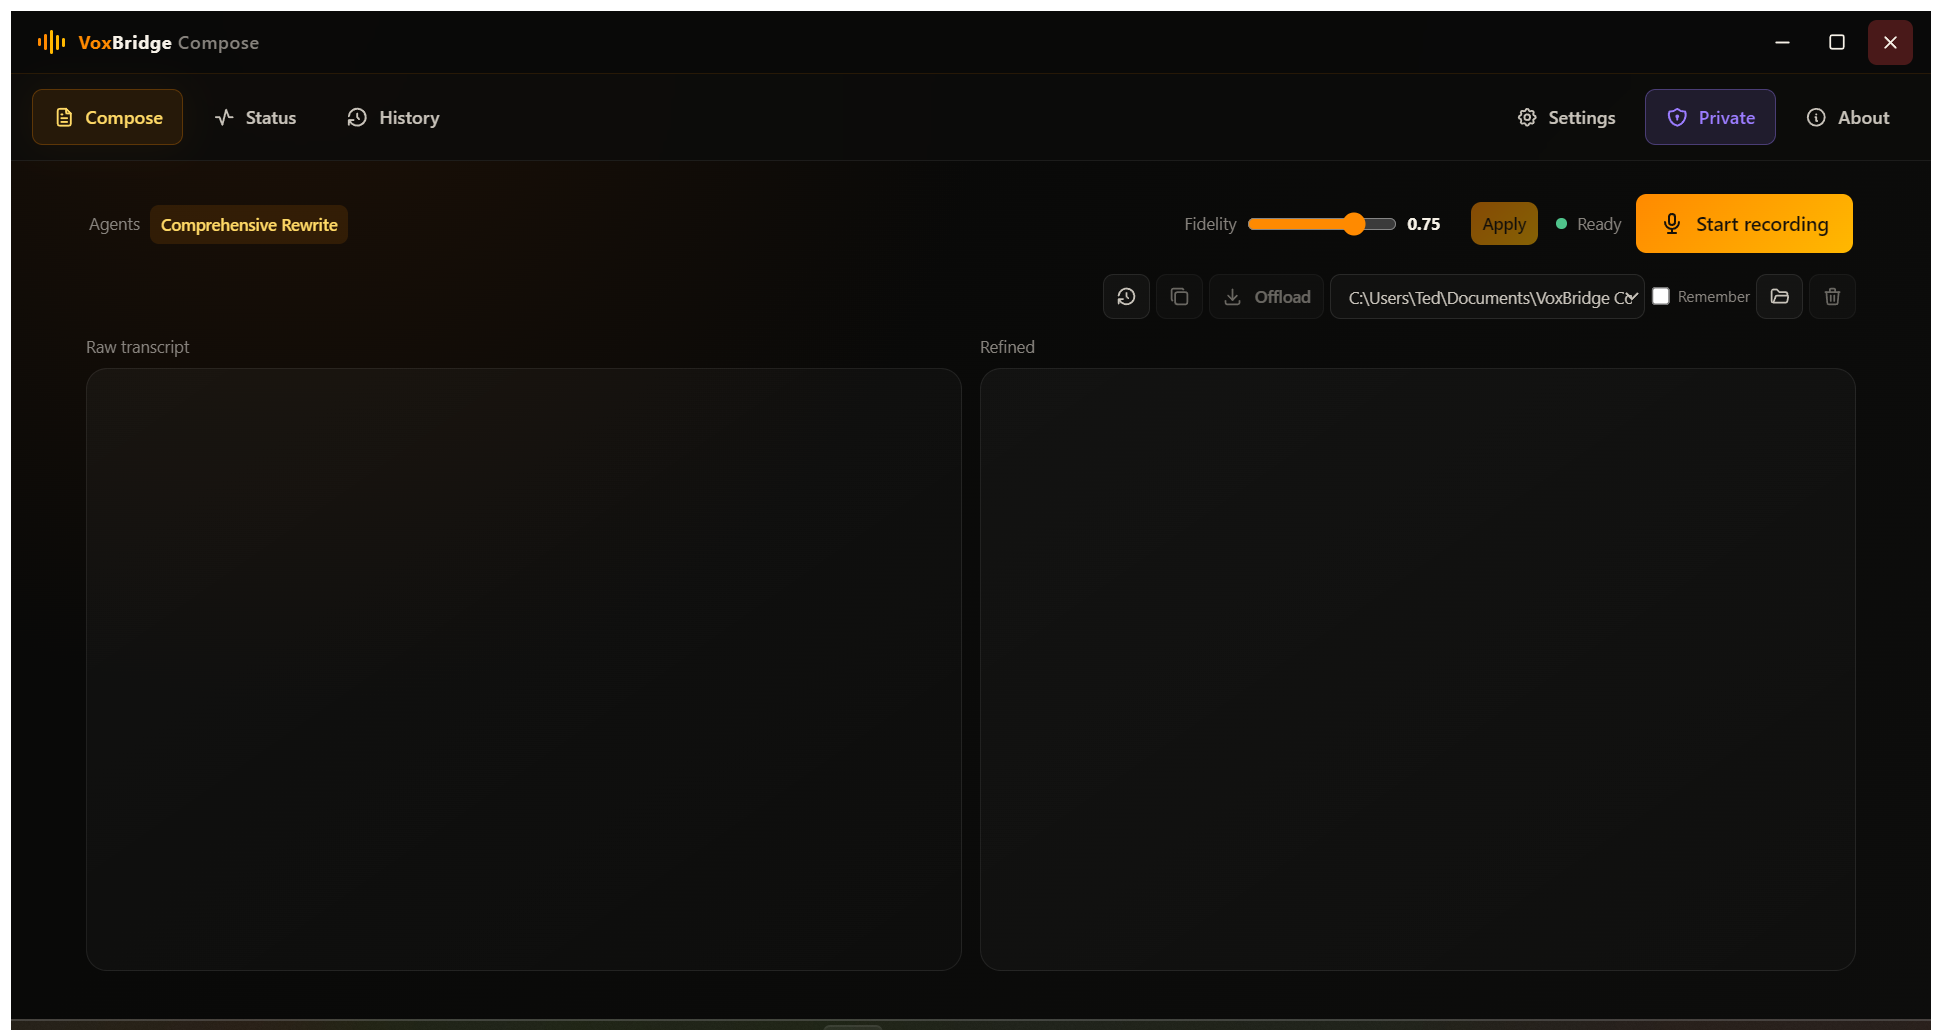
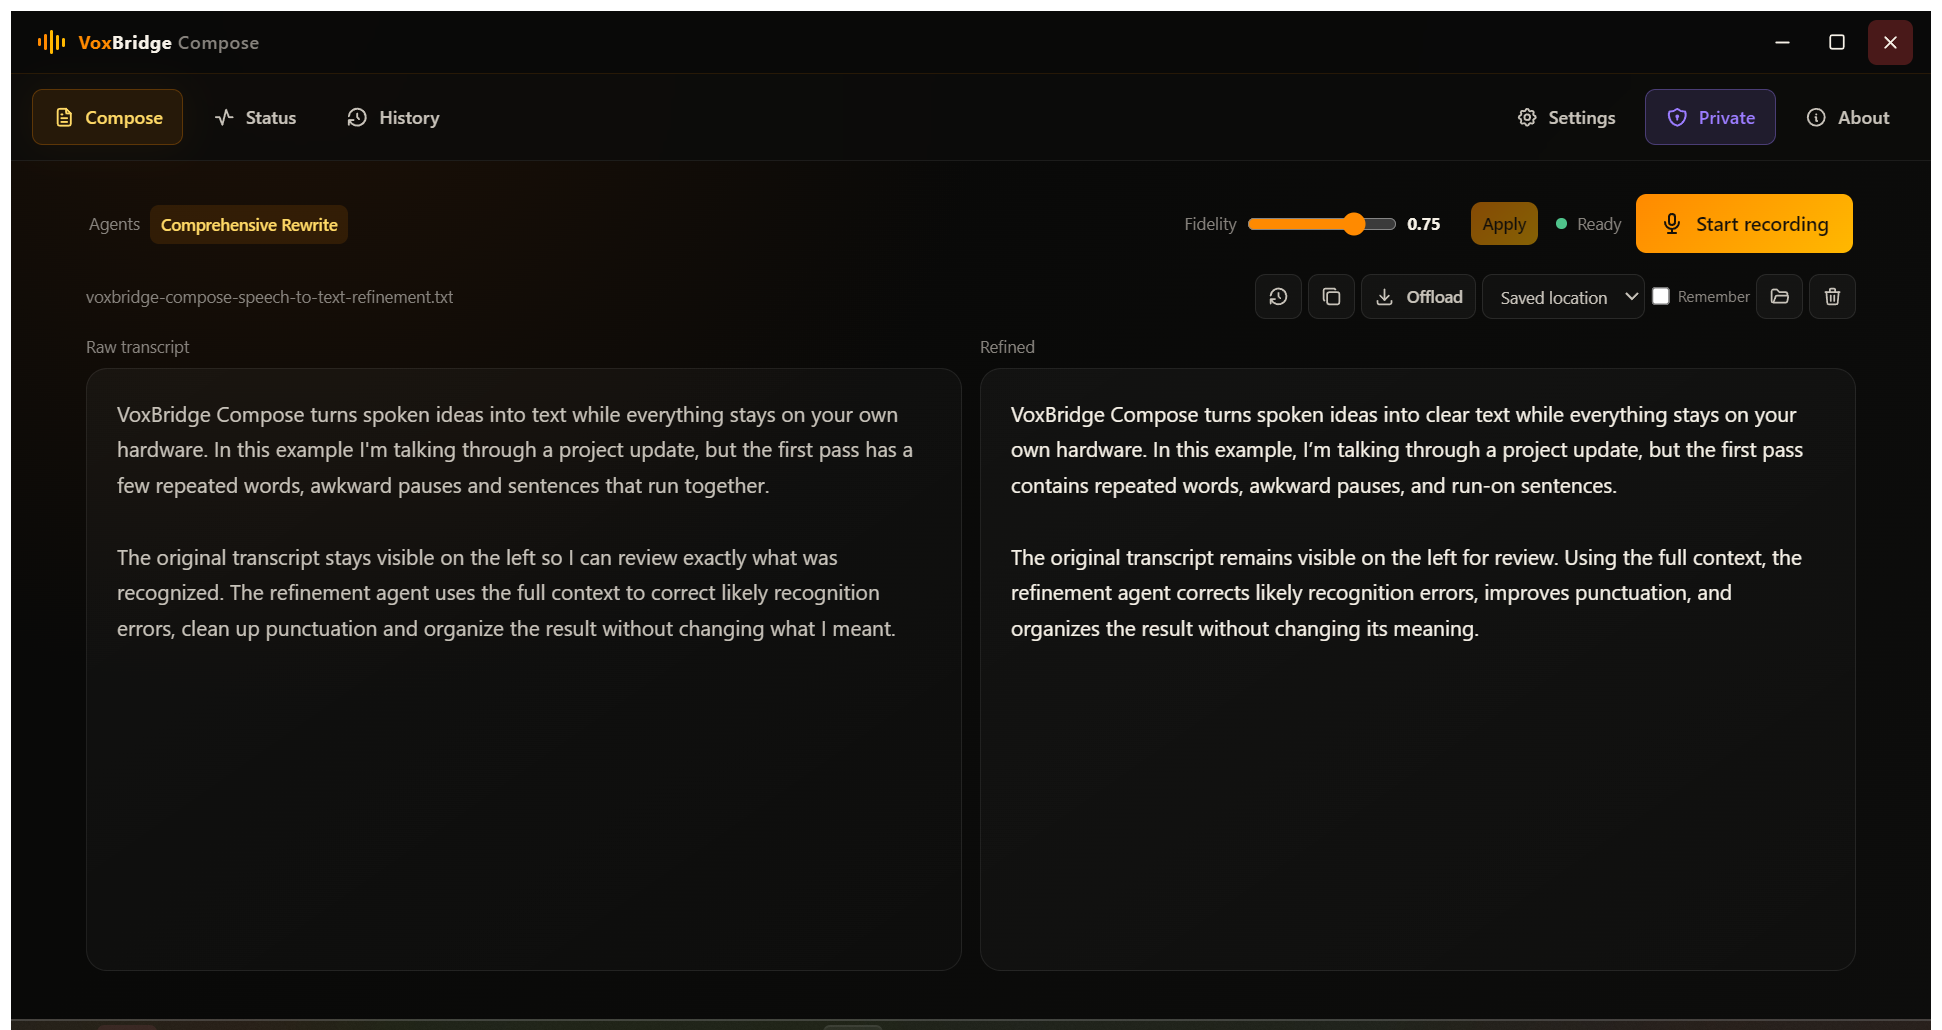
docs: show populated Compose workspace

diff --git a/README.md b/README.md
@@ -31,6 +31,12 @@ No account or hosted speech service is required.
 
 ![VoxBridge Compose workspace](docs/screenshots/compose-workspace.png)
 
+#### Agent prompt
+
+Hover over the active agent to review its prompt and processing settings.
+
+![VoxBridge Compose agent prompt](docs/screenshots/compose-agent-prompt.png)
+
 ### Agents
 
 ![VoxBridge Compose agent settings](docs/screenshots/agent-settings.png)
